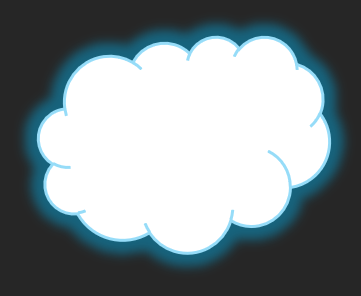
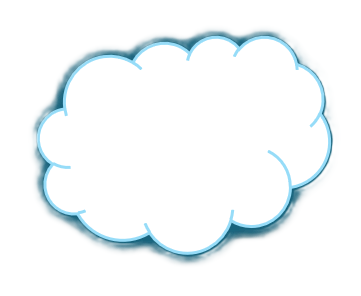
added more comments. Attempt to swap in improved looking clouds.

diff --git a/inspiredmeStyles.css b/inspiredmeStyles.css
@@ -145,9 +145,9 @@ body {
 /* Cloud styling */
 .inspiration-cloud {
     position: absolute;
-    width: 200px; /* Adjust the cloud width */
+    width: 202px; /* Adjust the cloud width. OG was 200px, need just a couple pixel more space */
     height: 140px; /* Adjust the cloud height */
-    background: url("images/cloud_main.png") no-repeat center center; /* Use the cloud image */
+    background: url("images/cloud_main.png") no-repeat center center; /* Use the Main cloud image for the displayed text */
     background-size: contain; 
 
     font-size: 1.2rem;

diff --git a/index.html b/index.html
@@ -93,3 +93,8 @@
         <script src="script.js" defer></script>
     </body>
 </html>
+
+<!-- Noted Sources:
+ - HTML & CSS by Jon Duckett
+ - shecodes.io
+ - https://www.w3schools.com/jsref/default.asp -->
